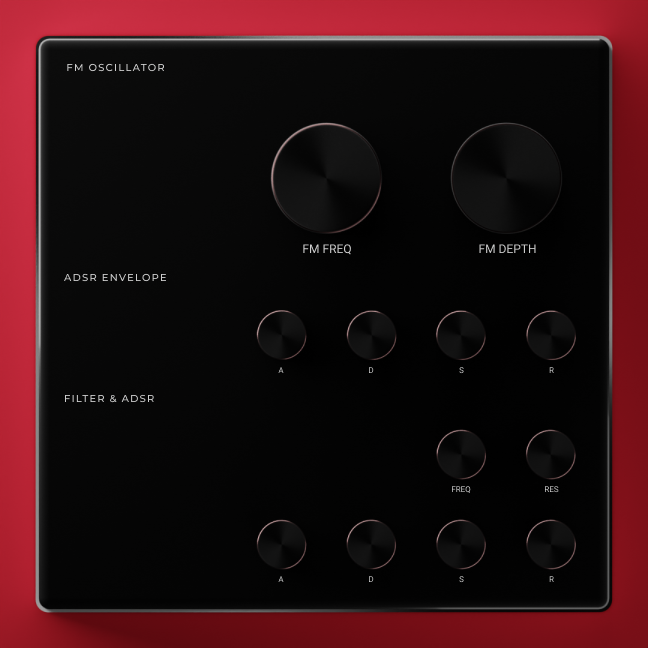
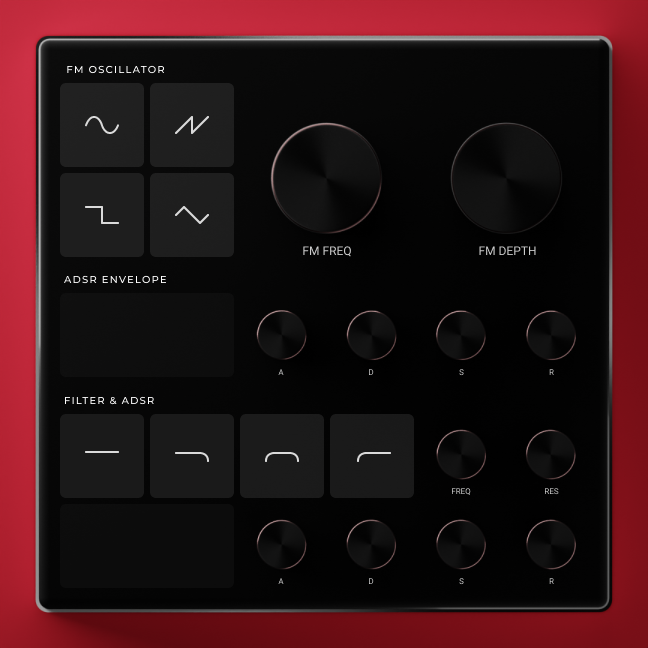
Added custom components for wave-type and filter-type components

diff --git a/Source/FilterTypeSelector.cpp b/Source/FilterTypeSelector.cpp
@@ -1,0 +1,73 @@
+/*
+  ==============================================================================
+
+    FilterTypeSelector.cpp
+    Created: 30 Sep 2021 2:17:04am
+    Author:  220us
+
+  ==============================================================================
+*/
+
+#include <JuceHeader.h>
+#include "FilterTypeSelector.h"
+
+//==============================================================================
+FilterTypeSelector::FilterTypeSelector(juce::AudioProcessorValueTreeState& apvts) :
+    filterTypeSelectorAttachment(*apvts.getParameter("FILTERTYPE"), paramerterChangedCallback)
+{
+    juce::LookAndFeel_V4::setDefaultLookAndFeel(&customLNF);
+
+    noneButton.setRadioGroupId(FilterButtons);
+    lowpassButton.setRadioGroupId(FilterButtons);
+    bandpassButton.setRadioGroupId(FilterButtons);
+    highpassButton.setRadioGroupId(FilterButtons);
+
+    addAndMakeVisible(noneButton);
+    addAndMakeVisible(lowpassButton);
+    addAndMakeVisible(bandpassButton);
+    addAndMakeVisible(highpassButton);
+
+    noneButton.onClick = [this] { updateToggleState(&noneButton, "None"); };
+    lowpassButton.onClick = [this] { updateToggleState(&noneButton, "Lowpass"); };
+    bandpassButton.onClick = [this] { updateToggleState(&noneButton, "Bandpass"); };
+    highpassButton.onClick = [this] { updateToggleState(&noneButton, "Highpass"); };
+
+    noneButton.setToggleState(true, false);
+}
+
+FilterTypeSelector::~FilterTypeSelector()
+{
+    juce::LookAndFeel_V4::setDefaultLookAndFeel(nullptr);
+}
+
+void FilterTypeSelector::paint (juce::Graphics& g)
+{
+    g.fillAll (juce::Colours::transparentBlack);
+}
+
+void FilterTypeSelector::resized()
+{
+    noneButton.setBounds(0, 0, getWidth() / 4, getHeight());
+    lowpassButton.setBounds(getWidth() / 4, 0, getWidth() / 4, getHeight());
+    bandpassButton.setBounds(getWidth() / 2, 0, getWidth() / 4, getHeight());
+    highpassButton.setBounds(getWidth() * 3.0f / 4.0f, 0, getWidth() / 4, getHeight());
+}
+
+void FilterTypeSelector::updateToggleState(juce::Button* button, juce::String name)
+{
+    if (name.compare("None") == 0)
+        filterTypeSelectorAttachment.setValueAsCompleteGesture(0);
+    else if (name.compare("Lowpass") == 0)
+        filterTypeSelectorAttachment.setValueAsCompleteGesture(1);
+    else if (name.compare("Bandpass") == 0)
+        filterTypeSelectorAttachment.setValueAsCompleteGesture(2);
+    else if (name.compare("Highpass") == 0)
+        filterTypeSelectorAttachment.setValueAsCompleteGesture(3);
+    else
+        jassertfalse;
+}
+
+void FilterTypeSelector::paramerterChangedCallback(float newValue)
+{
+
+}

diff --git a/Source/FilterComponent.cpp b/Source/FilterComponent.cpp
@@ -12,15 +12,13 @@
 #include "FilterComponent.h"
 
 //==============================================================================
-FilterComponent::FilterComponent(juce::AudioProcessorValueTreeState& apvts)
+FilterComponent::FilterComponent(juce::AudioProcessorValueTreeState& apvts) :
+    filterTypeSelector(apvts)
 {
     juce::LookAndFeel_V4::setDefaultLookAndFeel(&customLNF);
 
-    juce::StringArray choices{ "Lowpass", "Bandpass", "Highpass" };
-    filterTypeSelector.addItemList(choices, 1);
-    // addAndMakeVisible(filterTypeSelector);
-    filterTypeSelectorAttachment = std::make_unique<juce::AudioProcessorValueTreeState::ComboBoxAttachment>(apvts, "FILTERTYPE", filterTypeSelector);
-
+    addAndMakeVisible(filterTypeSelector);
+    
     filterFreqSlider.setSliderStyle(juce::Slider::SliderStyle::RotaryHorizontalVerticalDrag);
     filterFreqSlider.setTextBoxStyle(juce::Slider::NoTextBox, true, 0, 0);
     filterResSlider.setSliderStyle(juce::Slider::SliderStyle::RotaryHorizontalVerticalDrag);
@@ -47,10 +45,9 @@ void FilterComponent::resized()
 {
     const auto bounds = getLocalBounds();
 
-    // filterTypeSelector.setBounds(0, 0, 90, 20);
-
     auto const oneSixth = bounds.getWidth() / 6.0f;
 
+    filterTypeSelector.setBounds(0, 10, oneSixth * 4, oneSixth);
     filterFreqSlider.setBounds(oneSixth * 4, 0, oneSixth, oneSixth);
     filterResSlider.setBounds(oneSixth * 5, 0, oneSixth, oneSixth);
 }

diff --git a/Source/OSCComponent.cpp b/Source/OSCComponent.cpp
@@ -12,14 +12,12 @@
 #include "OSCComponent.h"
 
 //==============================================================================
-OSCComponent::OSCComponent(juce::AudioProcessorValueTreeState& apvts)
+OSCComponent::OSCComponent(juce::AudioProcessorValueTreeState& apvts) :
+    oscWaveSelector(apvts)
 {
     juce::LookAndFeel_V4::setDefaultLookAndFeel(&customLNF);
 
-    juce::StringArray choices{ "Sin", "Saw", "Square", "Triangle" };
-    oscWaveSelector.addItemList(choices, 1);
-    // addAndMakeVisible(oscWaveSelector);
-    oscWaveSelectorAttachment = std::make_unique<juce::AudioProcessorValueTreeState::ComboBoxAttachment>(apvts, "OSC", oscWaveSelector);
+    addAndMakeVisible(oscWaveSelector);
 
     fmDepthSlider.setSliderStyle(juce::Slider::SliderStyle::RotaryHorizontalVerticalDrag);
     fmDepthSlider.setTextBoxStyle(juce::Slider::NoTextBox, true, 0, 0);
@@ -45,13 +43,9 @@ void OSCComponent::paint (juce::Graphics& g)
 
 void OSCComponent::resized()
 {
-    // This method is where you should set the bounds of any child
-    // components that your component contains..
-
-    oscWaveSelector.setBounds(0, 0, 90, 20);
-
     auto const oneThird = getWidth() / 3.0f;
 
+    oscWaveSelector.setBounds(0, 0, oneThird, oneThird);
     fmDepthSlider.setBounds(oneThird, 0, oneThird, oneThird);
     fmFreqSlider.setBounds(oneThird * 2, 0, oneThird, oneThird);
 }

diff --git a/Source/StyleSheet.cpp b/Source/StyleSheet.cpp
@@ -10,7 +10,6 @@
 
 #include "StyleSheet.h"
 
-
 void CustomLNF::drawRotarySlider(juce::Graphics& g, int x, int y, int width, int height, float sliderPos, float rotaryStartAngle, float rotaryEndAngle, juce::Slider& slider)
 {
     auto outline = juce::Colour::Colour(24, 24, 24);
@@ -60,13 +59,27 @@ void CustomLNF::drawRotarySlider(juce::Graphics& g, int x, int y, int width, int
             4, 4);
     }
 
+    g.setFont(10);
     auto value = juce::String(slider.getValue());
     auto strWidth = g.getCurrentFont().getStringWidth(value);
     juce::Rectangle<float> r;
-    r.setTop(y);
+    r.setTop(y + 8);
     r.setBottom(y + 24);
     r.setLeft(x);
     r.setRight(x + width);
-    g.setColour(juce::Colours::white);
+    g.setColour(juce::Colour(240, 240, 240));
     g.drawFittedText(value, r.toNearestInt(), juce::Justification::centred, 1);
+}
+
+void CustomLNF::drawToggleButton(juce::Graphics& g, juce::ToggleButton& toggleButton, bool shouldDrawButtonAsHighlighted, bool shouldDrawButtonAsDown)
+{
+    juce::Rectangle<float> bounds(
+        4, 4, toggleButton.getWidth() - 8, toggleButton.getWidth() - 8
+    );
+
+    if (toggleButton.getToggleState())
+    {
+        g.setColour(juce::Colour(255, 73, 99));
+        g.drawRoundedRectangle(bounds, 8, 4);
+    }
 }

diff --git a/Source/FilterTypeSelector.h b/Source/FilterTypeSelector.h
@@ -1,0 +1,47 @@
+/*
+  ==============================================================================
+
+    FilterTypeSelector.h
+    Created: 30 Sep 2021 2:17:04am
+    Author:  220us
+
+  ==============================================================================
+*/
+
+#pragma once
+
+#include <JuceHeader.h>
+#include "StyleSheet.h"
+
+//==============================================================================
+/*
+*/
+class FilterTypeSelector  : public juce::Component
+{
+public:
+    FilterTypeSelector(juce::AudioProcessorValueTreeState& apvts);
+    ~FilterTypeSelector() override;
+
+    void paint (juce::Graphics&) override;
+    void resized() override;
+
+    enum RadioButtonIds
+    {
+        FilterButtons = 1002
+    };
+
+private:
+    CustomLNF customLNF;
+
+    juce::ToggleButton noneButton{ "None" };
+    juce::ToggleButton lowpassButton{ "Lowpass" };
+    juce::ToggleButton bandpassButton{ "Bandpass" };
+    juce::ToggleButton highpassButton{ "Highpass" };
+
+    void updateToggleState(juce::Button* button, juce::String name);
+
+    static void paramerterChangedCallback(float newValue);
+    juce::ParameterAttachment filterTypeSelectorAttachment;
+
+    JUCE_DECLARE_NON_COPYABLE_WITH_LEAK_DETECTOR (FilterTypeSelector)
+};

diff --git a/Source/PluginEditor.cpp b/Source/PluginEditor.cpp
@@ -15,8 +15,7 @@ Synth_00AudioProcessorEditor::Synth_00AudioProcessorEditor (Synth_00AudioProcess
     adsr(audioProcessor.apvts, "ATTACK", "DECAY", "SUSTAIN", "RELEASE"),
     osc(audioProcessor.apvts),
     filter(audioProcessor.apvts),
-    modADSR(audioProcessor.apvts, "MODATTACK", "MODDECAY", "MODSUSTAIN", "MODRELEASE"),
-    waveTypeSelector(audioProcessor.apvts)
+    modADSR(audioProcessor.apvts, "MODATTACK", "MODDECAY", "MODSUSTAIN", "MODRELEASE")
 {
     setSize (648, 648);
 
@@ -29,8 +28,6 @@ Synth_00AudioProcessorEditor::Synth_00AudioProcessorEditor (Synth_00AudioProcess
     addAndMakeVisible(filter);
     
     addAndMakeVisible(modADSR);
-
-    // addAndMakeVisible(waveTypeSelector);
 }
 
 Synth_00AudioProcessorEditor::~Synth_00AudioProcessorEditor()
@@ -77,10 +74,8 @@ void Synth_00AudioProcessorEditor::resized()
     
     modADSR.setBounds(
         bounds.getX(),
-        bounds.getTopLeft().getY() + 395,
+        bounds.getTopLeft().getY() + 426,
         bounds.getWidth(),
-        bounds.getHeight() * (1.0f / 3.0f)
+        bounds.getHeight() * (4.0f / 18.0f)
     );
-
-    // waveTypeSelector.setBounds(0, 0, 200, 200);
 }

diff --git a/Source/WaveTypeSelector.cpp b/Source/WaveTypeSelector.cpp
@@ -15,6 +15,8 @@
 WaveTypeSelector::WaveTypeSelector(juce::AudioProcessorValueTreeState& apvts) :
     waveTypeSelectorAttachment(*apvts.getParameter("OSC"), parameterChangedCallback)
 {
+    juce::LookAndFeel_V4::setDefaultLookAndFeel(&customLNF);
+
     sinButton.setRadioGroupId(WaveButtons);
     sawButton.setRadioGroupId(WaveButtons);
     squareButton.setRadioGroupId(WaveButtons);
@@ -35,11 +37,12 @@ WaveTypeSelector::WaveTypeSelector(juce::AudioProcessorValueTreeState& apvts) :
 
 WaveTypeSelector::~WaveTypeSelector()
 {
+    juce::LookAndFeel_V4::setDefaultLookAndFeel(nullptr);
 }
 
 void WaveTypeSelector::paint (juce::Graphics& g)
 {
-    g.fillAll (juce::Colours::black);
+    g.fillAll (juce::Colours::transparentBlack);
 }
 
 void WaveTypeSelector::resized()
@@ -66,5 +69,5 @@ void WaveTypeSelector::updateToggleState(juce::Button* button, juce::String name
 
 void WaveTypeSelector::parameterChangedCallback(float newValue)
 {
-
+    // TODO: Update UI here
 }

diff --git a/Source/FilterData.cpp b/Source/FilterData.cpp
@@ -28,21 +28,28 @@ void FilterData::process(juce::AudioBuffer<float>& buffer)
 {
     jassert(isPrepared);
 
-    juce::dsp::AudioBlock<float> block{ buffer };
-    filter.process(juce::dsp::ProcessContextReplacing<float>{ block });
+    if (!filterBypass)
+    {
+        juce::dsp::AudioBlock<float> block{ buffer };
+        filter.process(juce::dsp::ProcessContextReplacing<float>{ block });
+    }
 }
 
 void FilterData::updateParameters(const int filterType, const float freq, const float resonance, const float modulator)
 {
+    filterBypass = false;
+
     switch (filterType)
     {
     case 0:
+        filterBypass = true;
+    case 1:
         filter.setType(juce::dsp::StateVariableTPTFilterType::lowpass);
         break;
-    case 1:
+    case 2:
         filter.setType(juce::dsp::StateVariableTPTFilterType::bandpass);
         break;
-    case 2:
+    case 3:
         filter.setType(juce::dsp::StateVariableTPTFilterType::highpass);
         break;
     }

diff --git a/Source/WaveTypeSelector.h b/Source/WaveTypeSelector.h
@@ -11,6 +11,7 @@
 #pragma once
 
 #include <JuceHeader.h>
+#include "StyleSheet.h"
 
 //==============================================================================
 /*
@@ -30,9 +31,11 @@ public:
     };
 
 private:
+    CustomLNF customLNF;
+
     juce::ToggleButton sinButton{ "Sin" };
-    juce::ToggleButton squareButton{ "Square" };
     juce::ToggleButton sawButton{ "Saw" };
+    juce::ToggleButton squareButton{ "Square" };
     juce::ToggleButton triangleButton{ "Triangle" };
 
     void updateToggleState(juce::Button* button, juce::String name);

diff --git a/Source/PluginProcessor.cpp b/Source/PluginProcessor.cpp
@@ -245,7 +245,7 @@ juce::AudioProcessorValueTreeState::ParameterLayout Synth_00AudioProcessor::crea
 
     // Filter
     params.push_back(std::make_unique<juce::AudioParameterChoice>("FILTERTYPE", "Filter Type",
-        juce::StringArray{ "Lowpass", "Bandpass", "Highpass" }, 0));
+        juce::StringArray{ "None", "Lowpass", "Bandpass", "Highpass" }, 0));
 
     params.push_back(std::make_unique<juce::AudioParameterFloat>(
         "FILTERCUTOFF", "Filter Cutoff", juce::NormalisableRange<float> { 20.0f, 20000.0f, 0.1f, 0.6f }, 20000.0f));

diff --git a/Source/OSCComponent.h b/Source/OSCComponent.h
@@ -11,6 +11,7 @@
 #pragma once
 
 #include <JuceHeader.h>
+#include "WaveTypeSelector.h"
 #include "StyleSheet.h"
 
 //==============================================================================
@@ -28,8 +29,7 @@ public:
 private:
     CustomLNF customLNF;
 
-    juce::ComboBox oscWaveSelector;
-    std::unique_ptr<juce::AudioProcessorValueTreeState::ComboBoxAttachment> oscWaveSelectorAttachment;
+    WaveTypeSelector oscWaveSelector;
 
     juce::Slider fmDepthSlider{ "FM DEPTH" };
     juce::Slider fmFreqSlider{ " FM FREQ "};

diff --git a/Source/FilterComponent.h b/Source/FilterComponent.h
@@ -11,6 +11,7 @@
 #pragma once
 
 #include <JuceHeader.h>
+#include "FilterTypeSelector.h"
 #include "StyleSheet.h"
 
 //==============================================================================
@@ -28,8 +29,7 @@ public:
 private:
     CustomLNF customLNF;
 
-    juce::ComboBox filterTypeSelector;
-    std::unique_ptr<juce::AudioProcessorValueTreeState::ComboBoxAttachment> filterTypeSelectorAttachment;
+    FilterTypeSelector filterTypeSelector;
 
     juce::Slider filterFreqSlider;
     juce::Slider filterResSlider;
